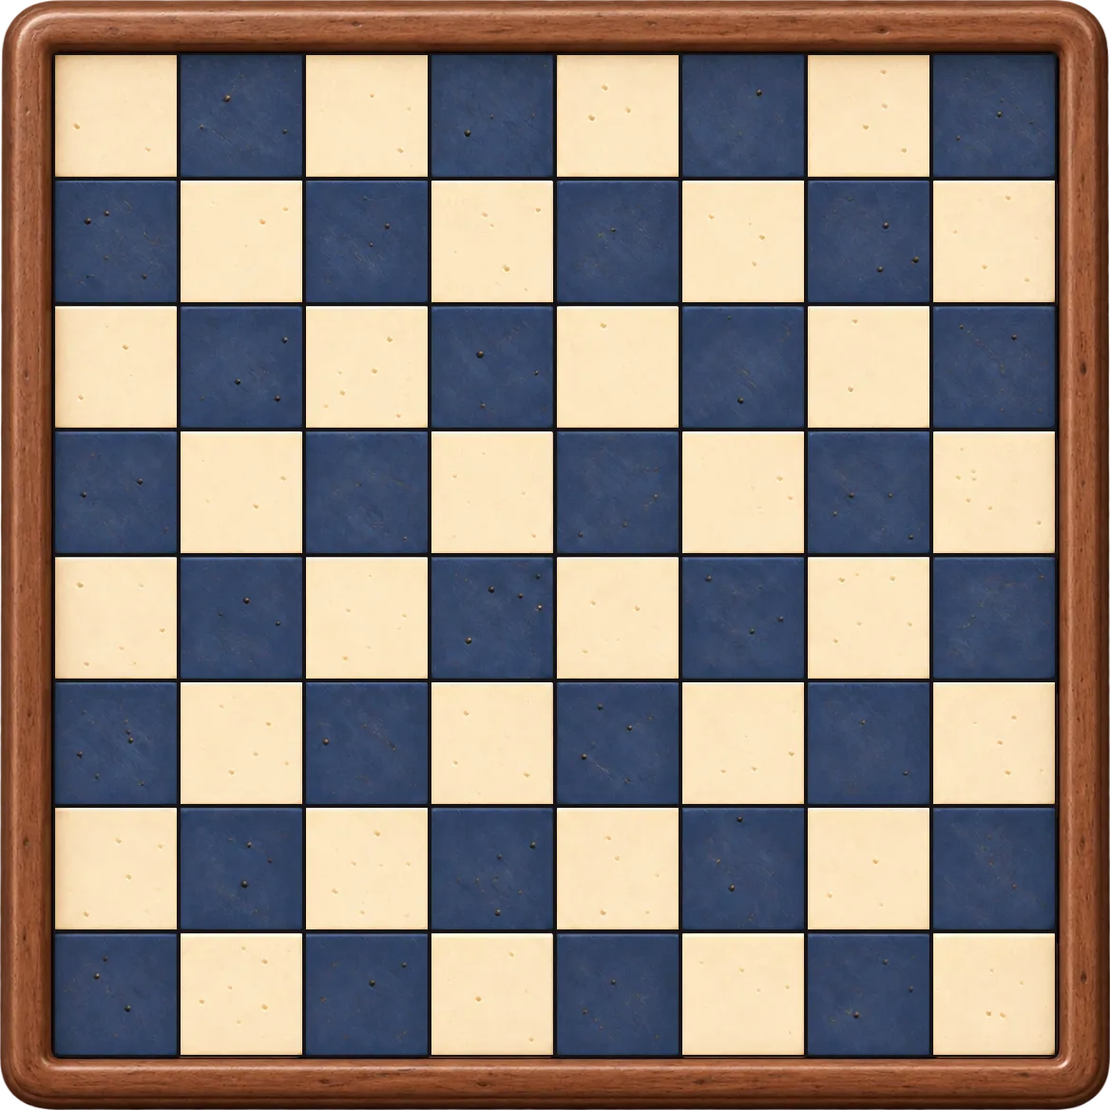
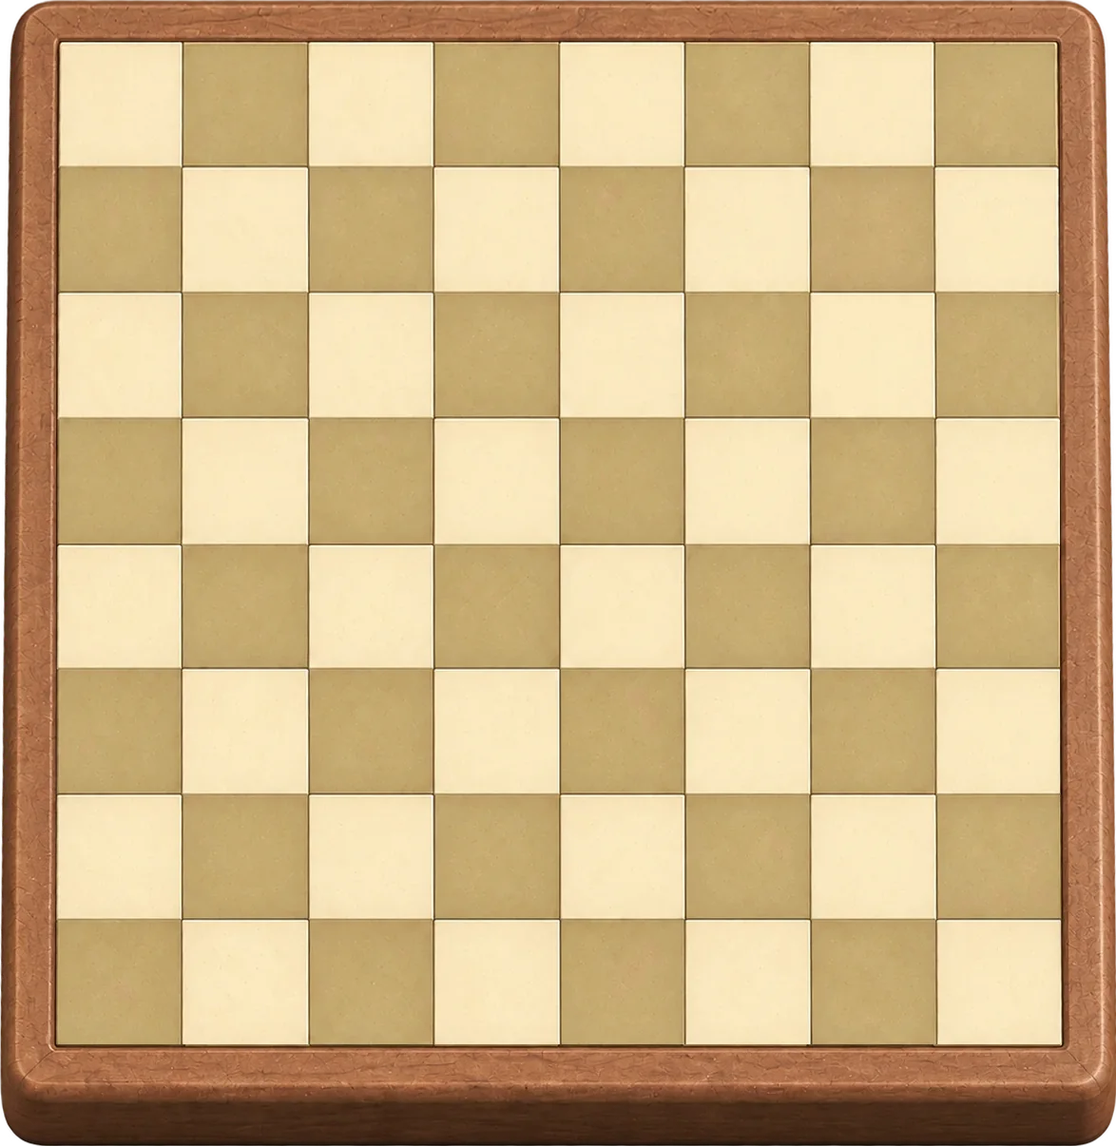
Board: tan and cream tiles with a front edge, new clay piece set
The new board artwork is drawn in perspective; it is straightened to a
top-down view and its tiles re-laid on an exact grid, keeping the frame's
front edge below the board. The frame's shadow now follows its outline,
and coordinates get their own colours for contrast on the tan tiles.

Claude-Session: https://claude.ai/code/session_01Kfpso9TLh3jA9qFFd7XUqi

diff --git a/docs/index.html b/docs/index.html
@@ -18,7 +18,7 @@
   --bg:#F3EEE3; --surface:#FFFDF8; --surface-2:#F8F4EB; --ink:#221E18; --muted:#6F6758; --line:#E2DACB; --line-strong:#CDC3AF;
   --primary:#221E18; --primary-ink:#FFFDF8;
   --accent:#1F6B4E; --accent-ink:#FFFFFF; --accent-soft:rgba(31,107,78,.11);
-  --sq-light:#F4DEB8; --sq-dark:#374665; --hl:rgba(79,182,234,.6); --board-edge:#5C3219;
+  --sq-light:#FAE7BC; --sq-dark:#C5A86F; --hl:rgba(79,182,234,.6); --co-light:#94733D; --co-dark:#FFF7E0;
   --good:#23704A; --good-soft:rgba(35,112,74,.09); --bad:#B23A2C; --bad-soft:rgba(178,58,44,.09);
   --good-solid:#2C8A55; --good-deep:#1C5C38; --bad-solid:#C8432F; --bad-deep:#86281C; --on-solid:#FFFFFF;
   --ann-g:#15781B; --ann-r:#C42B2B; --ann-b:#1F4FD0; --ann-y:#E68F00;
@@ -31,7 +31,7 @@
   --bg:#14120E; --surface:#1D1A15; --surface-2:#25211B; --ink:#EEE7D9; --muted:#A2998A; --line:#322D25; --line-strong:#463F34;
   --primary:#EEE7D9; --primary-ink:#17140F;
   --accent:#7CC6A0; --accent-ink:#0E1A14; --accent-soft:rgba(124,198,160,.14);
-  --sq-light:#F4DEB8; --sq-dark:#374665; --hl:rgba(79,182,234,.6); --board-edge:#3E2110;
+  --sq-light:#FAE7BC; --sq-dark:#C5A86F; --hl:rgba(79,182,234,.6); --co-light:#94733D; --co-dark:#FFF7E0;
   --good:#6FCB96; --good-soft:rgba(111,203,150,.1); --bad:#FF7C6B; --bad-soft:rgba(255,124,107,.1);
   --good-solid:#2E9159; --good-deep:#1A5734; --bad-solid:#D04B37; --bad-deep:#7E251A;
   --shadow:0 18px 40px -28px rgba(0,0,0,.8);
@@ -41,7 +41,7 @@
   --bg:#14120E; --surface:#1D1A15; --surface-2:#25211B; --ink:#EEE7D9; --muted:#A2998A; --line:#322D25; --line-strong:#463F34;
   --primary:#EEE7D9; --primary-ink:#17140F;
   --accent:#7CC6A0; --accent-ink:#0E1A14; --accent-soft:rgba(124,198,160,.14);
-  --sq-light:#F4DEB8; --sq-dark:#374665; --hl:rgba(79,182,234,.6); --board-edge:#3E2110;
+  --sq-light:#FAE7BC; --sq-dark:#C5A86F; --hl:rgba(79,182,234,.6); --co-light:#94733D; --co-dark:#FFF7E0;
   --good:#6FCB96; --good-soft:rgba(111,203,150,.1); --bad:#FF7C6B; --bad-soft:rgba(255,124,107,.1);
   --good-solid:#2E9159; --good-deep:#1A5734; --bad-solid:#D04B37; --bad-deep:#7E251A;
   --shadow:0 18px 40px -28px rgba(0,0,0,.8);
@@ -86,18 +86,19 @@ a:hover{text-decoration-color:currentColor}
 
 .card{background:var(--surface);border:1px solid var(--line);border-radius:16px;padding:18px}
 .eyebrow{font-size:11px;font-weight:600;letter-spacing:.11em;text-transform:uppercase;color:var(--muted)}
-/* board: img/board.webp is a walnut frame 56px wide around 8 clay tiles on a 132px pitch, so the frame is 5.3% of the playing area.
-   The shell is the playing area; the frame and its front edge are drawn around it. Pieces stand taller than their square. */
-.board-shell{--w:min(100% / 1.106, 579px, (100vh - 140px) / 1.106);width:var(--w);min-width:min(100% / 1.106, 253px);margin:calc(var(--w) * .053) auto calc(var(--w) * .053 + 8px);position:relative;isolation:isolate}
-.board-shell::before{content:"";position:absolute;inset:-5.3%;z-index:-1;border-radius:2.8%;background:url("img/board.webp") center/100% 100%;
-  box-shadow:0 7px 0 var(--board-edge), 0 30px 46px -24px rgba(40,25,10,.75)}
+/* board: img/board.webp is the walnut frame around 8 tiles on a 132px pitch, seen from above with the frame's front edge below:
+   the frame is 5.59% of the playing area at the sides, 4.07% at the top and 10.13% at the bottom.
+   The shell is the playing area and the frame is drawn around it. Pieces stand taller than their square. */
+.board-shell{--w:min(100% / 1.112, 576px, (100vh - 140px) / 1.112);width:var(--w);min-width:min(100% / 1.112, 252px);margin:calc(var(--w) * .041) auto calc(var(--w) * .101 + 6px);position:relative;isolation:isolate}
+.board-shell::before{content:"";position:absolute;inset:-4.07% -5.59% -10.13%;z-index:-1;background:url("img/board.webp") center/100% 100%;
+  filter:drop-shadow(0 2px 2px rgba(40,25,10,.35)) drop-shadow(0 16px 16px rgba(40,25,10,.3))}
 .board{display:grid;grid-template-columns:repeat(8,1fr);aspect-ratio:1;width:100%;max-width:100%;touch-action:none;user-select:none;-webkit-user-select:none}
 .sq{position:relative}
 .sq .co{position:absolute;font-family:var(--f-body);font-size:clamp(8px,1.4vw,11px);font-weight:700;line-height:1;pointer-events:none}
 .sq .co.f{right:4px;bottom:3px}
 .sq .co.r{left:4px;top:4px}
-.sq .co{color:var(--sq-dark)}
-.sq.dk .co{color:var(--sq-light)}
+.sq .co{color:var(--co-light)}
+.sq.dk .co{color:var(--co-dark)}
 .sq::after{content:"";position:absolute;inset:1.5%;border-radius:4%;pointer-events:none;z-index:0}
 .sq.hl::after{background:var(--hl)}
 .sq.sel::after{box-shadow:inset 0 0 0 3px var(--accent);background:var(--accent-soft)}
@@ -105,7 +106,8 @@ a:hover{text-decoration-color:currentColor}
 .sq[data-an]::before{content:"";position:absolute;inset:1.5%;border-radius:4%;pointer-events:none;z-index:0;background:var(--an);opacity:.6}
 .sq[data-an="g"]{--an:var(--ann-g)}.sq[data-an="r"]{--an:var(--ann-r)}.sq[data-an="b"]{--an:var(--ann-b)}.sq[data-an="y"]{--an:var(--ann-y)}
 .arrows{position:absolute;inset:0;width:100%;height:100%;pointer-events:none;z-index:3;overflow:visible}
-.board-shell:has(.board.solved)::before{box-shadow:0 0 0 5px var(--good-solid), 0 9px 0 var(--good-deep), 0 30px 46px -24px rgba(40,25,10,.75)}
+/* drop-shadow follows the frame's outline; stacked, they make a ring */
+.board-shell:has(.board.solved)::before{filter:drop-shadow(0 0 1px var(--good-solid)) drop-shadow(0 0 1.5px var(--good-solid)) drop-shadow(0 0 1.5px var(--good-solid)) drop-shadow(0 0 2px var(--good-solid)) drop-shadow(0 0 2px var(--good-solid)) drop-shadow(0 16px 16px rgba(40,25,10,.3))}
 .board.editable .sq{cursor:pointer}
 .board.stamping .sq{cursor:copy}
 .board.erasing .sq{cursor:not-allowed}
@@ -172,7 +174,7 @@ a:hover{text-decoration-color:currentColor}
 /* after-check animations */
 @keyframes wave{0%{transform:none}40%{transform:translateY(-18%) scale(1.12) rotate(-4deg)}75%{transform:translateY(3%) scale(.97)}100%{transform:none}}
 .pc.wave{animation:wave .32s cubic-bezier(.3,.7,.4,1) both}
-.board-shell::after{content:"";position:absolute;inset:-5.3%;border-radius:2.8%;pointer-events:none;opacity:0;z-index:4}
+.board-shell::after{content:"";position:absolute;inset:-4.07% -5.59% -10.13%;border-radius:3.2%;pointer-events:none;opacity:0;z-index:4}
 @keyframes flashfx{0%{opacity:.5}100%{opacity:0}}
 .board-shell.flash-good::after{background:var(--good-solid);animation:flashfx .35s ease-out}
 .board-shell.flash-bad::after{background:var(--bad-solid);animation:flashfx .35s ease-out}

diff --git a/docs/mistake-patterns.html b/docs/mistake-patterns.html
@@ -18,7 +18,7 @@
   --bg:#F3EEE3; --surface:#FFFDF8; --surface-2:#F8F4EB; --ink:#221E18; --muted:#6F6758; --line:#E2DACB; --line-strong:#CDC3AF;
   --primary:#221E18; --primary-ink:#FFFDF8;
   --accent:#1F6B4E; --accent-ink:#FFFFFF; --accent-soft:rgba(31,107,78,.11);
-  --sq-light:#F4DEB8; --sq-dark:#374665; --hl:rgba(79,182,234,.6); --board-edge:#5C3219;
+  --sq-light:#FAE7BC; --sq-dark:#C5A86F; --hl:rgba(79,182,234,.6); --co-light:#94733D; --co-dark:#FFF7E0;
   --good:#23704A; --good-soft:rgba(35,112,74,.09); --bad:#B23A2C; --bad-soft:rgba(178,58,44,.09);
   --good-solid:#2C8A55; --good-deep:#1C5C38; --bad-solid:#C8432F; --bad-deep:#86281C; --on-solid:#FFFFFF;
   --ann-g:#15781B; --ann-r:#C42B2B; --ann-b:#1F4FD0; --ann-y:#E68F00;
@@ -31,7 +31,7 @@
   --bg:#14120E; --surface:#1D1A15; --surface-2:#25211B; --ink:#EEE7D9; --muted:#A2998A; --line:#322D25; --line-strong:#463F34;
   --primary:#EEE7D9; --primary-ink:#17140F;
   --accent:#7CC6A0; --accent-ink:#0E1A14; --accent-soft:rgba(124,198,160,.14);
-  --sq-light:#F4DEB8; --sq-dark:#374665; --hl:rgba(79,182,234,.6); --board-edge:#3E2110;
+  --sq-light:#FAE7BC; --sq-dark:#C5A86F; --hl:rgba(79,182,234,.6); --co-light:#94733D; --co-dark:#FFF7E0;
   --good:#6FCB96; --good-soft:rgba(111,203,150,.1); --bad:#FF7C6B; --bad-soft:rgba(255,124,107,.1);
   --good-solid:#2E9159; --good-deep:#1A5734; --bad-solid:#D04B37; --bad-deep:#7E251A;
   --shadow:0 18px 40px -28px rgba(0,0,0,.8);
@@ -41,7 +41,7 @@
   --bg:#14120E; --surface:#1D1A15; --surface-2:#25211B; --ink:#EEE7D9; --muted:#A2998A; --line:#322D25; --line-strong:#463F34;
   --primary:#EEE7D9; --primary-ink:#17140F;
   --accent:#7CC6A0; --accent-ink:#0E1A14; --accent-soft:rgba(124,198,160,.14);
-  --sq-light:#F4DEB8; --sq-dark:#374665; --hl:rgba(79,182,234,.6); --board-edge:#3E2110;
+  --sq-light:#FAE7BC; --sq-dark:#C5A86F; --hl:rgba(79,182,234,.6); --co-light:#94733D; --co-dark:#FFF7E0;
   --good:#6FCB96; --good-soft:rgba(111,203,150,.1); --bad:#FF7C6B; --bad-soft:rgba(255,124,107,.1);
   --good-solid:#2E9159; --good-deep:#1A5734; --bad-solid:#D04B37; --bad-deep:#7E251A;
   --shadow:0 18px 40px -28px rgba(0,0,0,.8);
@@ -86,18 +86,19 @@ a:hover{text-decoration-color:currentColor}
 
 .card{background:var(--surface);border:1px solid var(--line);border-radius:16px;padding:18px}
 .eyebrow{font-size:11px;font-weight:600;letter-spacing:.11em;text-transform:uppercase;color:var(--muted)}
-/* board: img/board.webp is a walnut frame 56px wide around 8 clay tiles on a 132px pitch, so the frame is 5.3% of the playing area.
-   The shell is the playing area; the frame and its front edge are drawn around it. Pieces stand taller than their square. */
-.board-shell{--w:min(100% / 1.106, 579px, (100vh - 140px) / 1.106);width:var(--w);min-width:min(100% / 1.106, 253px);margin:calc(var(--w) * .053) auto calc(var(--w) * .053 + 8px);position:relative;isolation:isolate}
-.board-shell::before{content:"";position:absolute;inset:-5.3%;z-index:-1;border-radius:2.8%;background:url("img/board.webp") center/100% 100%;
-  box-shadow:0 7px 0 var(--board-edge), 0 30px 46px -24px rgba(40,25,10,.75)}
+/* board: img/board.webp is the walnut frame around 8 tiles on a 132px pitch, seen from above with the frame's front edge below:
+   the frame is 5.59% of the playing area at the sides, 4.07% at the top and 10.13% at the bottom.
+   The shell is the playing area and the frame is drawn around it. Pieces stand taller than their square. */
+.board-shell{--w:min(100% / 1.112, 576px, (100vh - 140px) / 1.112);width:var(--w);min-width:min(100% / 1.112, 252px);margin:calc(var(--w) * .041) auto calc(var(--w) * .101 + 6px);position:relative;isolation:isolate}
+.board-shell::before{content:"";position:absolute;inset:-4.07% -5.59% -10.13%;z-index:-1;background:url("img/board.webp") center/100% 100%;
+  filter:drop-shadow(0 2px 2px rgba(40,25,10,.35)) drop-shadow(0 16px 16px rgba(40,25,10,.3))}
 .board{display:grid;grid-template-columns:repeat(8,1fr);aspect-ratio:1;width:100%;max-width:100%;touch-action:none;user-select:none;-webkit-user-select:none}
 .sq{position:relative}
 .sq .co{position:absolute;font-family:var(--f-body);font-size:clamp(8px,1.4vw,11px);font-weight:700;line-height:1;pointer-events:none}
 .sq .co.f{right:4px;bottom:3px}
 .sq .co.r{left:4px;top:4px}
-.sq .co{color:var(--sq-dark)}
-.sq.dk .co{color:var(--sq-light)}
+.sq .co{color:var(--co-light)}
+.sq.dk .co{color:var(--co-dark)}
 .sq::after{content:"";position:absolute;inset:1.5%;border-radius:4%;pointer-events:none;z-index:0}
 .sq.hl::after{background:var(--hl)}
 .sq.sel::after{box-shadow:inset 0 0 0 3px var(--accent);background:var(--accent-soft)}
@@ -105,7 +106,8 @@ a:hover{text-decoration-color:currentColor}
 .sq[data-an]::before{content:"";position:absolute;inset:1.5%;border-radius:4%;pointer-events:none;z-index:0;background:var(--an);opacity:.6}
 .sq[data-an="g"]{--an:var(--ann-g)}.sq[data-an="r"]{--an:var(--ann-r)}.sq[data-an="b"]{--an:var(--ann-b)}.sq[data-an="y"]{--an:var(--ann-y)}
 .arrows{position:absolute;inset:0;width:100%;height:100%;pointer-events:none;z-index:3;overflow:visible}
-.board-shell:has(.board.solved)::before{box-shadow:0 0 0 5px var(--good-solid), 0 9px 0 var(--good-deep), 0 30px 46px -24px rgba(40,25,10,.75)}
+/* drop-shadow follows the frame's outline; stacked, they make a ring */
+.board-shell:has(.board.solved)::before{filter:drop-shadow(0 0 1px var(--good-solid)) drop-shadow(0 0 1.5px var(--good-solid)) drop-shadow(0 0 1.5px var(--good-solid)) drop-shadow(0 0 2px var(--good-solid)) drop-shadow(0 0 2px var(--good-solid)) drop-shadow(0 16px 16px rgba(40,25,10,.3))}
 .board.editable .sq{cursor:pointer}
 .board.stamping .sq{cursor:copy}
 .board.erasing .sq{cursor:not-allowed}
@@ -172,7 +174,7 @@ a:hover{text-decoration-color:currentColor}
 /* after-check animations */
 @keyframes wave{0%{transform:none}40%{transform:translateY(-18%) scale(1.12) rotate(-4deg)}75%{transform:translateY(3%) scale(.97)}100%{transform:none}}
 .pc.wave{animation:wave .32s cubic-bezier(.3,.7,.4,1) both}
-.board-shell::after{content:"";position:absolute;inset:-5.3%;border-radius:2.8%;pointer-events:none;opacity:0;z-index:4}
+.board-shell::after{content:"";position:absolute;inset:-4.07% -5.59% -10.13%;border-radius:3.2%;pointer-events:none;opacity:0;z-index:4}
 @keyframes flashfx{0%{opacity:.5}100%{opacity:0}}
 .board-shell.flash-good::after{background:var(--good-solid);animation:flashfx .35s ease-out}
 .board-shell.flash-bad::after{background:var(--bad-solid);animation:flashfx .35s ease-out}

diff --git a/docs/spot-the-danger.html b/docs/spot-the-danger.html
@@ -18,7 +18,7 @@
   --bg:#F3EEE3; --surface:#FFFDF8; --surface-2:#F8F4EB; --ink:#221E18; --muted:#6F6758; --line:#E2DACB; --line-strong:#CDC3AF;
   --primary:#221E18; --primary-ink:#FFFDF8;
   --accent:#1F6B4E; --accent-ink:#FFFFFF; --accent-soft:rgba(31,107,78,.11);
-  --sq-light:#F4DEB8; --sq-dark:#374665; --hl:rgba(79,182,234,.6); --board-edge:#5C3219;
+  --sq-light:#FAE7BC; --sq-dark:#C5A86F; --hl:rgba(79,182,234,.6); --co-light:#94733D; --co-dark:#FFF7E0;
   --good:#23704A; --good-soft:rgba(35,112,74,.09); --bad:#B23A2C; --bad-soft:rgba(178,58,44,.09);
   --good-solid:#2C8A55; --good-deep:#1C5C38; --bad-solid:#C8432F; --bad-deep:#86281C; --on-solid:#FFFFFF;
   --ann-g:#15781B; --ann-r:#C42B2B; --ann-b:#1F4FD0; --ann-y:#E68F00;
@@ -31,7 +31,7 @@
   --bg:#14120E; --surface:#1D1A15; --surface-2:#25211B; --ink:#EEE7D9; --muted:#A2998A; --line:#322D25; --line-strong:#463F34;
   --primary:#EEE7D9; --primary-ink:#17140F;
   --accent:#7CC6A0; --accent-ink:#0E1A14; --accent-soft:rgba(124,198,160,.14);
-  --sq-light:#F4DEB8; --sq-dark:#374665; --hl:rgba(79,182,234,.6); --board-edge:#3E2110;
+  --sq-light:#FAE7BC; --sq-dark:#C5A86F; --hl:rgba(79,182,234,.6); --co-light:#94733D; --co-dark:#FFF7E0;
   --good:#6FCB96; --good-soft:rgba(111,203,150,.1); --bad:#FF7C6B; --bad-soft:rgba(255,124,107,.1);
   --good-solid:#2E9159; --good-deep:#1A5734; --bad-solid:#D04B37; --bad-deep:#7E251A;
   --shadow:0 18px 40px -28px rgba(0,0,0,.8);
@@ -41,7 +41,7 @@
   --bg:#14120E; --surface:#1D1A15; --surface-2:#25211B; --ink:#EEE7D9; --muted:#A2998A; --line:#322D25; --line-strong:#463F34;
   --primary:#EEE7D9; --primary-ink:#17140F;
   --accent:#7CC6A0; --accent-ink:#0E1A14; --accent-soft:rgba(124,198,160,.14);
-  --sq-light:#F4DEB8; --sq-dark:#374665; --hl:rgba(79,182,234,.6); --board-edge:#3E2110;
+  --sq-light:#FAE7BC; --sq-dark:#C5A86F; --hl:rgba(79,182,234,.6); --co-light:#94733D; --co-dark:#FFF7E0;
   --good:#6FCB96; --good-soft:rgba(111,203,150,.1); --bad:#FF7C6B; --bad-soft:rgba(255,124,107,.1);
   --good-solid:#2E9159; --good-deep:#1A5734; --bad-solid:#D04B37; --bad-deep:#7E251A;
   --shadow:0 18px 40px -28px rgba(0,0,0,.8);
@@ -86,18 +86,19 @@ a:hover{text-decoration-color:currentColor}
 
 .card{background:var(--surface);border:1px solid var(--line);border-radius:16px;padding:18px}
 .eyebrow{font-size:11px;font-weight:600;letter-spacing:.11em;text-transform:uppercase;color:var(--muted)}
-/* board: img/board.webp is a walnut frame 56px wide around 8 clay tiles on a 132px pitch, so the frame is 5.3% of the playing area.
-   The shell is the playing area; the frame and its front edge are drawn around it. Pieces stand taller than their square. */
-.board-shell{--w:min(100% / 1.106, 579px, (100vh - 140px) / 1.106);width:var(--w);min-width:min(100% / 1.106, 253px);margin:calc(var(--w) * .053) auto calc(var(--w) * .053 + 8px);position:relative;isolation:isolate}
-.board-shell::before{content:"";position:absolute;inset:-5.3%;z-index:-1;border-radius:2.8%;background:url("img/board.webp") center/100% 100%;
-  box-shadow:0 7px 0 var(--board-edge), 0 30px 46px -24px rgba(40,25,10,.75)}
+/* board: img/board.webp is the walnut frame around 8 tiles on a 132px pitch, seen from above with the frame's front edge below:
+   the frame is 5.59% of the playing area at the sides, 4.07% at the top and 10.13% at the bottom.
+   The shell is the playing area and the frame is drawn around it. Pieces stand taller than their square. */
+.board-shell{--w:min(100% / 1.112, 576px, (100vh - 140px) / 1.112);width:var(--w);min-width:min(100% / 1.112, 252px);margin:calc(var(--w) * .041) auto calc(var(--w) * .101 + 6px);position:relative;isolation:isolate}
+.board-shell::before{content:"";position:absolute;inset:-4.07% -5.59% -10.13%;z-index:-1;background:url("img/board.webp") center/100% 100%;
+  filter:drop-shadow(0 2px 2px rgba(40,25,10,.35)) drop-shadow(0 16px 16px rgba(40,25,10,.3))}
 .board{display:grid;grid-template-columns:repeat(8,1fr);aspect-ratio:1;width:100%;max-width:100%;touch-action:none;user-select:none;-webkit-user-select:none}
 .sq{position:relative}
 .sq .co{position:absolute;font-family:var(--f-body);font-size:clamp(8px,1.4vw,11px);font-weight:700;line-height:1;pointer-events:none}
 .sq .co.f{right:4px;bottom:3px}
 .sq .co.r{left:4px;top:4px}
-.sq .co{color:var(--sq-dark)}
-.sq.dk .co{color:var(--sq-light)}
+.sq .co{color:var(--co-light)}
+.sq.dk .co{color:var(--co-dark)}
 .sq::after{content:"";position:absolute;inset:1.5%;border-radius:4%;pointer-events:none;z-index:0}
 .sq.hl::after{background:var(--hl)}
 .sq.sel::after{box-shadow:inset 0 0 0 3px var(--accent);background:var(--accent-soft)}
@@ -105,7 +106,8 @@ a:hover{text-decoration-color:currentColor}
 .sq[data-an]::before{content:"";position:absolute;inset:1.5%;border-radius:4%;pointer-events:none;z-index:0;background:var(--an);opacity:.6}
 .sq[data-an="g"]{--an:var(--ann-g)}.sq[data-an="r"]{--an:var(--ann-r)}.sq[data-an="b"]{--an:var(--ann-b)}.sq[data-an="y"]{--an:var(--ann-y)}
 .arrows{position:absolute;inset:0;width:100%;height:100%;pointer-events:none;z-index:3;overflow:visible}
-.board-shell:has(.board.solved)::before{box-shadow:0 0 0 5px var(--good-solid), 0 9px 0 var(--good-deep), 0 30px 46px -24px rgba(40,25,10,.75)}
+/* drop-shadow follows the frame's outline; stacked, they make a ring */
+.board-shell:has(.board.solved)::before{filter:drop-shadow(0 0 1px var(--good-solid)) drop-shadow(0 0 1.5px var(--good-solid)) drop-shadow(0 0 1.5px var(--good-solid)) drop-shadow(0 0 2px var(--good-solid)) drop-shadow(0 0 2px var(--good-solid)) drop-shadow(0 16px 16px rgba(40,25,10,.3))}
 .board.editable .sq{cursor:pointer}
 .board.stamping .sq{cursor:copy}
 .board.erasing .sq{cursor:not-allowed}
@@ -172,7 +174,7 @@ a:hover{text-decoration-color:currentColor}
 /* after-check animations */
 @keyframes wave{0%{transform:none}40%{transform:translateY(-18%) scale(1.12) rotate(-4deg)}75%{transform:translateY(3%) scale(.97)}100%{transform:none}}
 .pc.wave{animation:wave .32s cubic-bezier(.3,.7,.4,1) both}
-.board-shell::after{content:"";position:absolute;inset:-5.3%;border-radius:2.8%;pointer-events:none;opacity:0;z-index:4}
+.board-shell::after{content:"";position:absolute;inset:-4.07% -5.59% -10.13%;border-radius:3.2%;pointer-events:none;opacity:0;z-index:4}
 @keyframes flashfx{0%{opacity:.5}100%{opacity:0}}
 .board-shell.flash-good::after{background:var(--good-solid);animation:flashfx .35s ease-out}
 .board-shell.flash-bad::after{background:var(--bad-solid);animation:flashfx .35s ease-out}

diff --git a/src/common.css b/src/common.css
@@ -5,7 +5,7 @@
   --bg:#F3EEE3; --surface:#FFFDF8; --surface-2:#F8F4EB; --ink:#221E18; --muted:#6F6758; --line:#E2DACB; --line-strong:#CDC3AF;
   --primary:#221E18; --primary-ink:#FFFDF8;
   --accent:#1F6B4E; --accent-ink:#FFFFFF; --accent-soft:rgba(31,107,78,.11);
-  --sq-light:#F4DEB8; --sq-dark:#374665; --hl:rgba(79,182,234,.6); --board-edge:#5C3219;
+  --sq-light:#FAE7BC; --sq-dark:#C5A86F; --hl:rgba(79,182,234,.6); --co-light:#94733D; --co-dark:#FFF7E0;
   --good:#23704A; --good-soft:rgba(35,112,74,.09); --bad:#B23A2C; --bad-soft:rgba(178,58,44,.09);
   --good-solid:#2C8A55; --good-deep:#1C5C38; --bad-solid:#C8432F; --bad-deep:#86281C; --on-solid:#FFFFFF;
   --ann-g:#15781B; --ann-r:#C42B2B; --ann-b:#1F4FD0; --ann-y:#E68F00;
@@ -18,7 +18,7 @@
   --bg:#14120E; --surface:#1D1A15; --surface-2:#25211B; --ink:#EEE7D9; --muted:#A2998A; --line:#322D25; --line-strong:#463F34;
   --primary:#EEE7D9; --primary-ink:#17140F;
   --accent:#7CC6A0; --accent-ink:#0E1A14; --accent-soft:rgba(124,198,160,.14);
-  --sq-light:#F4DEB8; --sq-dark:#374665; --hl:rgba(79,182,234,.6); --board-edge:#3E2110;
+  --sq-light:#FAE7BC; --sq-dark:#C5A86F; --hl:rgba(79,182,234,.6); --co-light:#94733D; --co-dark:#FFF7E0;
   --good:#6FCB96; --good-soft:rgba(111,203,150,.1); --bad:#FF7C6B; --bad-soft:rgba(255,124,107,.1);
   --good-solid:#2E9159; --good-deep:#1A5734; --bad-solid:#D04B37; --bad-deep:#7E251A;
   --shadow:0 18px 40px -28px rgba(0,0,0,.8);
@@ -28,7 +28,7 @@
   --bg:#14120E; --surface:#1D1A15; --surface-2:#25211B; --ink:#EEE7D9; --muted:#A2998A; --line:#322D25; --line-strong:#463F34;
   --primary:#EEE7D9; --primary-ink:#17140F;
   --accent:#7CC6A0; --accent-ink:#0E1A14; --accent-soft:rgba(124,198,160,.14);
-  --sq-light:#F4DEB8; --sq-dark:#374665; --hl:rgba(79,182,234,.6); --board-edge:#3E2110;
+  --sq-light:#FAE7BC; --sq-dark:#C5A86F; --hl:rgba(79,182,234,.6); --co-light:#94733D; --co-dark:#FFF7E0;
   --good:#6FCB96; --good-soft:rgba(111,203,150,.1); --bad:#FF7C6B; --bad-soft:rgba(255,124,107,.1);
   --good-solid:#2E9159; --good-deep:#1A5734; --bad-solid:#D04B37; --bad-deep:#7E251A;
   --shadow:0 18px 40px -28px rgba(0,0,0,.8);
@@ -73,18 +73,19 @@ a:hover{text-decoration-color:currentColor}
 
 .card{background:var(--surface);border:1px solid var(--line);border-radius:16px;padding:18px}
 .eyebrow{font-size:11px;font-weight:600;letter-spacing:.11em;text-transform:uppercase;color:var(--muted)}
-/* board: img/board.webp is a walnut frame 56px wide around 8 clay tiles on a 132px pitch, so the frame is 5.3% of the playing area.
-   The shell is the playing area; the frame and its front edge are drawn around it. Pieces stand taller than their square. */
-.board-shell{--w:min(100% / 1.106, 579px, (100vh - 140px) / 1.106);width:var(--w);min-width:min(100% / 1.106, 253px);margin:calc(var(--w) * .053) auto calc(var(--w) * .053 + 8px);position:relative;isolation:isolate}
-.board-shell::before{content:"";position:absolute;inset:-5.3%;z-index:-1;border-radius:2.8%;background:url("img/board.webp") center/100% 100%;
-  box-shadow:0 7px 0 var(--board-edge), 0 30px 46px -24px rgba(40,25,10,.75)}
+/* board: img/board.webp is the walnut frame around 8 tiles on a 132px pitch, seen from above with the frame's front edge below:
+   the frame is 5.59% of the playing area at the sides, 4.07% at the top and 10.13% at the bottom.
+   The shell is the playing area and the frame is drawn around it. Pieces stand taller than their square. */
+.board-shell{--w:min(100% / 1.112, 576px, (100vh - 140px) / 1.112);width:var(--w);min-width:min(100% / 1.112, 252px);margin:calc(var(--w) * .041) auto calc(var(--w) * .101 + 6px);position:relative;isolation:isolate}
+.board-shell::before{content:"";position:absolute;inset:-4.07% -5.59% -10.13%;z-index:-1;background:url("img/board.webp") center/100% 100%;
+  filter:drop-shadow(0 2px 2px rgba(40,25,10,.35)) drop-shadow(0 16px 16px rgba(40,25,10,.3))}
 .board{display:grid;grid-template-columns:repeat(8,1fr);aspect-ratio:1;width:100%;max-width:100%;touch-action:none;user-select:none;-webkit-user-select:none}
 .sq{position:relative}
 .sq .co{position:absolute;font-family:var(--f-body);font-size:clamp(8px,1.4vw,11px);font-weight:700;line-height:1;pointer-events:none}
 .sq .co.f{right:4px;bottom:3px}
 .sq .co.r{left:4px;top:4px}
-.sq .co{color:var(--sq-dark)}
-.sq.dk .co{color:var(--sq-light)}
+.sq .co{color:var(--co-light)}
+.sq.dk .co{color:var(--co-dark)}
 .sq::after{content:"";position:absolute;inset:1.5%;border-radius:4%;pointer-events:none;z-index:0}
 .sq.hl::after{background:var(--hl)}
 .sq.sel::after{box-shadow:inset 0 0 0 3px var(--accent);background:var(--accent-soft)}
@@ -92,7 +93,8 @@ a:hover{text-decoration-color:currentColor}
 .sq[data-an]::before{content:"";position:absolute;inset:1.5%;border-radius:4%;pointer-events:none;z-index:0;background:var(--an);opacity:.6}
 .sq[data-an="g"]{--an:var(--ann-g)}.sq[data-an="r"]{--an:var(--ann-r)}.sq[data-an="b"]{--an:var(--ann-b)}.sq[data-an="y"]{--an:var(--ann-y)}
 .arrows{position:absolute;inset:0;width:100%;height:100%;pointer-events:none;z-index:3;overflow:visible}
-.board-shell:has(.board.solved)::before{box-shadow:0 0 0 5px var(--good-solid), 0 9px 0 var(--good-deep), 0 30px 46px -24px rgba(40,25,10,.75)}
+/* drop-shadow follows the frame's outline; stacked, they make a ring */
+.board-shell:has(.board.solved)::before{filter:drop-shadow(0 0 1px var(--good-solid)) drop-shadow(0 0 1.5px var(--good-solid)) drop-shadow(0 0 1.5px var(--good-solid)) drop-shadow(0 0 2px var(--good-solid)) drop-shadow(0 0 2px var(--good-solid)) drop-shadow(0 16px 16px rgba(40,25,10,.3))}
 .board.editable .sq{cursor:pointer}
 .board.stamping .sq{cursor:copy}
 .board.erasing .sq{cursor:not-allowed}
@@ -159,7 +161,7 @@ a:hover{text-decoration-color:currentColor}
 /* after-check animations */
 @keyframes wave{0%{transform:none}40%{transform:translateY(-18%) scale(1.12) rotate(-4deg)}75%{transform:translateY(3%) scale(.97)}100%{transform:none}}
 .pc.wave{animation:wave .32s cubic-bezier(.3,.7,.4,1) both}
-.board-shell::after{content:"";position:absolute;inset:-5.3%;border-radius:2.8%;pointer-events:none;opacity:0;z-index:4}
+.board-shell::after{content:"";position:absolute;inset:-4.07% -5.59% -10.13%;border-radius:3.2%;pointer-events:none;opacity:0;z-index:4}
 @keyframes flashfx{0%{opacity:.5}100%{opacity:0}}
 .board-shell.flash-good::after{background:var(--good-solid);animation:flashfx .35s ease-out}
 .board-shell.flash-bad::after{background:var(--bad-solid);animation:flashfx .35s ease-out}
